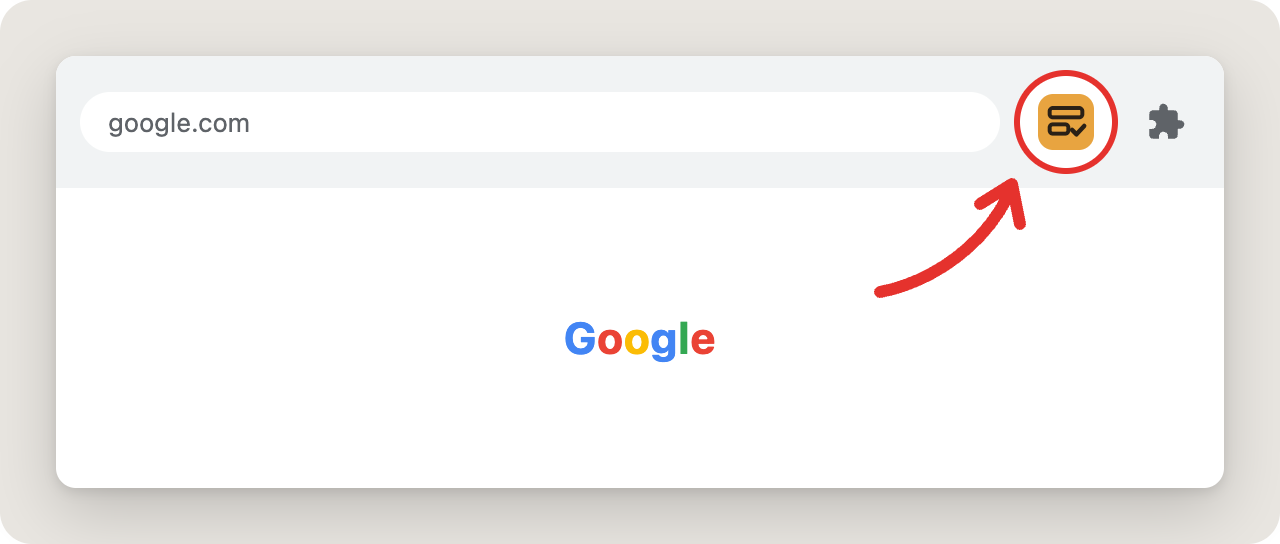
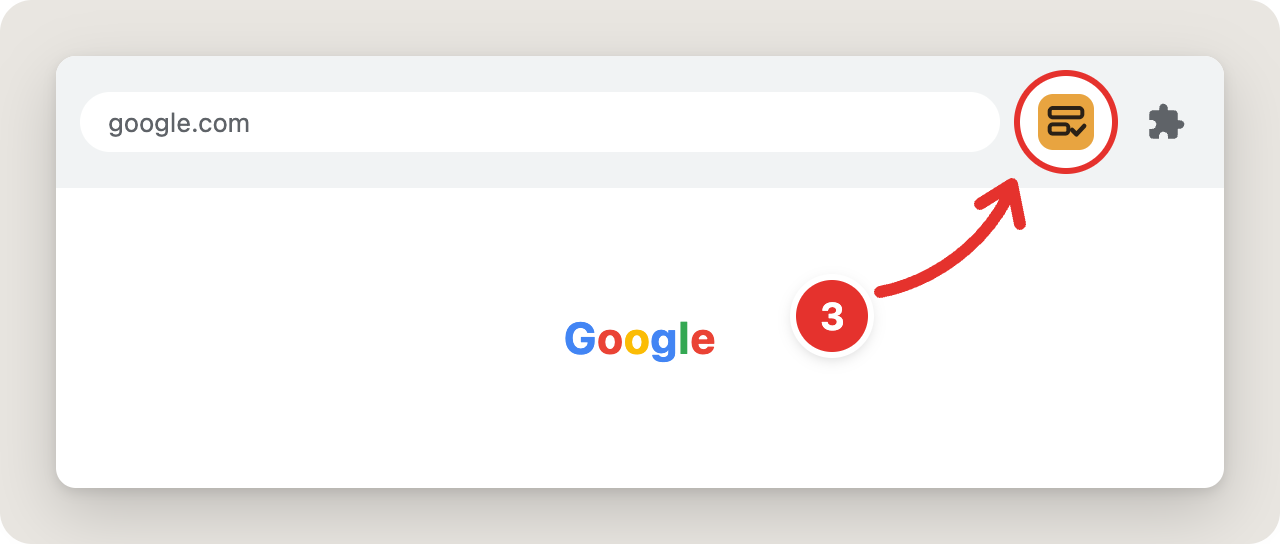
Welcome: steps 1 and 2 on one picture, step numbers on the pictures

Changed region(s): [[0.625, 0.5, 0.6875, 0.6562]]

diff --git a/tools/shots.html b/tools/shots.html
@@ -22,6 +22,7 @@ body { background: transparent; font: 14px/1.4 -apple-system, BlinkMacSystemFont
 .item .name { flex: 1; }
 .pin { width: 40px; height: 40px; border-radius: 50%; display: grid; place-items: center; box-shadow: 0 0 0 3px #e5322d; color: #5f6368; position: relative; }
 .pin svg { width: 24px; height: 24px; }
+.badge { position: absolute; width: 36px; height: 36px; border-radius: 50%; background: #e5322d; color: #fff; font-weight: 700; font-size: 19px; display: grid; place-items: center; box-shadow: 0 0 0 3px #fff, 0 2px 8px rgba(0,0,0,.25); z-index: 2; }
 .popup { position: absolute; top: 62px; right: 10px; width: 250px; background: #fbf9f6; border: 1px solid #e3ded7; border-radius: 10px; box-shadow: 0 8px 24px rgba(0,0,0,.2); padding: 18px 16px; text-align: center; }
 .popup .hero { width: 44px; height: 44px; border-radius: 12px; background: #fbeccd; margin: 0 auto 10px; display: grid; place-items: center; }
 .popup b { display: block; font-size: 15px; margin-bottom: 6px; color: #2a2520; }
@@ -36,23 +37,21 @@ body { background: transparent; font: 14px/1.4 -apple-system, BlinkMacSystemFont
 </svg>
 
 <!-- arrow: its head is the top-right corner of the 90x70 box; the box is placed so the head touches the ringed target -->
-<div class="card" id="step-1"><div class="win">
+<!-- steps 1 + 2 on one picture: the menu is open under the ringed puzzle, the pin is ringed; numbered badges -->
+<div class="card" id="step-1"><div class="win" style="height:270px">
   <div class="bar"><div class="omni">google.com</div><div class="tb big"><svg><use href="#puzzle"/></svg></div></div>
-  <div class="page"><div><b>G</b><b>o</b><b>o</b><b>g</b><b>l</b><b>e</b></div></div>
-  <svg class="arrow" style="right:46px; top:56px"><use href="#arrow"/></svg>
-</div></div>
-
-<div class="card" id="step-2"><div class="win" style="height:270px">
-  <div class="bar"><div class="omni">google.com</div><div class="tb"><svg><use href="#puzzle"/></svg></div></div>
-  <div class="menu"><h6>Extensions</h6>
+  <span class="badge" style="right:66px; top:15px">1</span>
+  <div class="menu" style="top:66px"><h6>Extensions</h6>
     <div class="item"><svg class="logo"><use href="#logo"/></svg><span class="name">Form Filler</span><span class="pin"><svg><use href="#pin"/></svg></span></div>
   </div>
-  <svg class="arrow" style="right:6px; top:150px; transform: rotate(-12deg)"><use href="#arrow"/></svg>
+  <svg class="arrow" style="right:6px; top:158px; transform: rotate(-12deg)"><use href="#arrow"/></svg>
+  <span class="badge" style="right:96px; top:210px">2</span>
 </div></div>
 
-<div class="card" id="step-3"><div class="win">
+<div class="card" id="step-2"><div class="win">
   <div class="bar"><div class="omni">google.com</div><div class="tb big"><svg><use href="#logo"/></svg></div><div class="tb"><svg><use href="#puzzle"/></svg></div></div>
   <div class="page"><div><b>G</b><b>o</b><b>o</b><b>g</b><b>l</b><b>e</b></div></div>
   <svg class="arrow" style="right:90px; top:56px"><use href="#arrow"/></svg>
+  <span class="badge" style="right:178px; top:112px">3</span>
 </div></div>
 </body></html>

diff --git a/welcome/index.html b/welcome/index.html
@@ -21,6 +21,7 @@
   .ok { display: inline-flex; align-items: center; gap: 8px; color: #8fd4a4; font-weight: 600; margin-bottom: 14px; }
   ol.steps { list-style: none; padding: 0; margin: 0; display: grid; gap: 40px; }
   .step h2 { display: flex; gap: 14px; align-items: baseline; font-size: 22px; margin: 0 0 16px; letter-spacing: -0.01em; }
+  .step h2.pair { margin-bottom: 10px; }
   .num { flex: none; width: 34px; height: 34px; border-radius: 50%; background: var(--accent); color: #2a2016; display: grid; place-items: center; font-size: 17px; font-weight: 700; transform: translateY(-2px); }
   .shot { display: block; width: 100%; max-width: 640px; height: auto; border-radius: 16px; }
   .after { margin-top: 44px; padding: 20px 22px; border: 1px solid var(--line); border-radius: 14px; background: var(--card); color: var(--muted); }
@@ -43,12 +44,9 @@
 
   <ol class="steps">
     <li class="step">
-      <h2><span class="num">1</span>Click the puzzle icon in the top-right corner of Chrome</h2>
-      <img class="shot" src="step-1.png" width="640" height="272" alt="The puzzle icon in the Chrome toolbar">
-    </li>
-    <li class="step">
+      <h2 class="pair"><span class="num">1</span>Click the puzzle icon in the top-right corner of Chrome</h2>
       <h2><span class="num">2</span>Find Form Filler and click the pin</h2>
-      <img class="shot" src="step-2.png" width="640" height="326" alt="The pin button next to Form Filler in the extensions menu">
+      <img class="shot" src="steps-1-2.png" width="640" height="326" alt="The puzzle icon in the Chrome toolbar, and the pin button next to Form Filler in the extensions menu">
     </li>
     <li class="step">
       <h2><span class="num">3</span>Click the Form Filler icon to get started</h2>

diff --git a/tools/render-shots.js b/tools/render-shots.js
@@ -1,5 +1,5 @@
 #!/usr/bin/env node
-// Renders the three welcome illustrations (tools/shots.html) to welcome/step-{1,2,3}.png at 2x.
+// Renders the two welcome illustrations (tools/shots.html) to welcome/steps-1-2.png and step-3.png at 2x.
 //   node tools/render-shots.js   (uses Chrome for Testing and puppeteer-core from the extension repo)
 'use strict';
 const path = require('path');
@@ -10,10 +10,10 @@ const { launch } = require(path.join(EXT, 'tools/e2e/run.js'));
   const p = await b.newPage();
   await p.setViewport({ width: 720, height: 1300, deviceScaleFactor: 2 });
   await p.goto('file://' + path.join(__dirname, 'shots.html'));
-  for (const n of [1, 2, 3]) {
-    const el = await p.$('#step-' + n);
-    await el.screenshot({ path: path.join(__dirname, '..', 'welcome', `step-${n}.png`), omitBackground: true });
-    console.log(`welcome/step-${n}.png`);
+  for (const [id, file] of [['step-1', 'steps-1-2.png'], ['step-2', 'step-3.png']]) {
+    const el = await p.$('#' + id);
+    await el.screenshot({ path: path.join(__dirname, '..', 'welcome', file), omitBackground: true });
+    console.log('welcome/' + file);
   }
   await b.close();
 })().catch((e) => { console.error(e); process.exit(1); });

diff --git a/README.md b/README.md
@@ -6,4 +6,4 @@ Static pages opened by the Form Filler Chrome extension (GitHub Pages):
 - `test-form.html` — sample form for Chrome Web Store reviewers (see store/moderator-note.md of the extension).
 
 Privacy policy: separate repository `form-filler-privacy`.
-Illustrations: `tools/shots.html` → `node tools/render-shots.js` → `welcome/step-*.png`.
+Illustrations: `tools/shots.html` → `node tools/render-shots.js` → `welcome/steps-1-2.png`, `welcome/step-3.png`.
